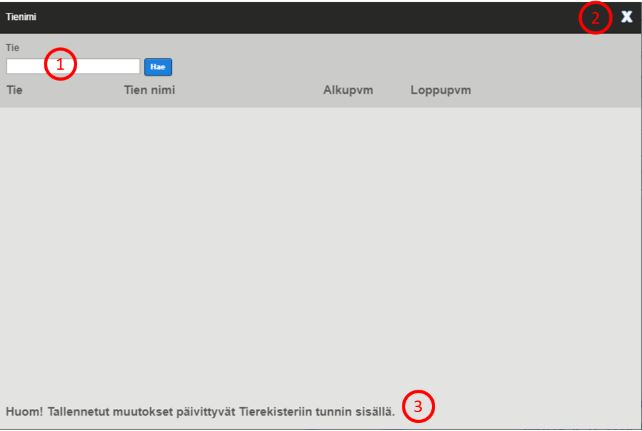
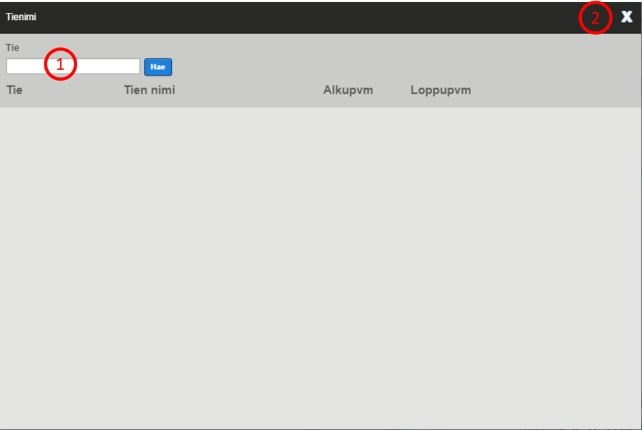
VIITE-2621 User manual update chapter 8

Changed region(s): [[0.0, 0.9049, 0.6854, 0.9954]]

diff --git a/viite-UI/manual/index.md b/viite-UI/manual/index.md
@@ -550,23 +550,23 @@ Tässä koostettuna tieosoiteprojektin tilat
 |Virhe tierekisterissä|Tierekisteri ei hyväksynyt projektia. Tierekisterin tarkempi virheilmoitus tulee näkyviin viemällä osoittimen "Virhe tierekisterissä"-tekstin päälle. Projektin voi avata uudelleen.|
 |Virhetilanne Viitteessä|Projekti on lähetty Tierekisteriin ja se on Tierekisterin hyväksymä, mutta projektin tiedot eivät piirry Viite-sovelluksessa.| 
 
-# 8. Tienimien ylläpito
+8 Tienimien ylläpito
 --------------------------
 
-Viitteessä teillä, joiden tienumero on suurempi kuin 70 000, tienimi on pakollinen tieto. Tienimi annetaan uutta tietä luotaessa projektilomakkeella.
+Viiteessä teillä, joiden tienumero on pienempi kuin 70 000, tienimi on pakollinen tieto. Tienimi annetaan toimenpidelomakkeella uutta tietä osoitteistettaessa.
 
-Jos annettu tienimi täytyy vaihtaa tai sitä pitää muokata esim. kirjoitusvirheen vuoksi, käytetään Tiennimen ylläpito -työkalua, joka avataan alkutilasta (karttakäyttöliittymän katselutilasta) Tieosoiteprojektit-painikkeen alta näytön oikeasta reunasta (kuva 6.1).
+Jos annettu tienimi täytyy vaihtaa tai sitä pitää muokata esim. kirjoitusvirheen vuoksi, käytetään _Tiennimen ylläpito_ -työkalua, joka avataan alkutilasta (karttakäyttöliittymän katselutilasta) Tieosoiteprojektit-painikkeen alta näytön oikeasta reunasta (kuva 6.1).
 
-Muokattavat tienimet haetaan tienumeron perusteella kirjoittamalla tien numero lomakkeen syöttökenttään (1) (kuva 8.1). Tiennimen ylläpito -ikkuna suljetaan klikkaamalla oikeasta yläkulmasta löytyvästä rastista (2). Lomakkeen alareunassa on huomautus (3), että tallennetut muutokset päivittyvät tierekisteriin tunnin sisällä.
+Muokattavat tienimet haetaan tienumeron perusteella kirjoittamalla tien numero lomakkeen syöttökenttään (1) (kuva 8.1). Tiennimen ylläpito -ikkuna suljetaan klikkaamalla oikeasta yläkulmasta löytyvästä rastista (2).
 
 ![Tienimen ylläpito](k53.JPG) 
 
-_Kuva 8.1: Tienimen ylläpito -työkalun lomakkeen etusivu._
+_Kuva 8.1: Tienimen ylläpito -työkalun lomake._
 
 8.1 Tien nimen muokkaaminen, kun tiellä on jo nimi
 --------------------------
 
-Kun tienumero on kirjoitettu syöttökenttään, painetaan Hae-painiketta, ja hakutulokset listautuvat hakukentän alapuolelle otsikkorivien alle (1). Listalla näkyvät tien aiemmat nimet alku- ja loppupäivämäärineen. Voimassa oleva nimi on listassa alimpana (2). Sitä voi muokata (syöttökenttä on valkoinen). Rivin lopussa on [+] –painike (3), jos haettu tie on voimassa oleva. Voimassa olevalla nimellä ei ole loppupäivämäärää (4). Hakukenttä ei tyhjene, mutta uuden haun voi tehdä kirjoittamalla uuden tienumeron hakukenttään ja painamalla jälleen Hae.
+Kun tienumero on kirjoitettu syöttökenttään, ja on painettu _Hae_-painiketta, hakutulokset listautuvat hakukentän alapuolelle otsikkorivien alle (1). Listalla näkyvät tien aiemmat nimet alku- ja loppupäivämäärineen. Voimassa oleva nimi on listassa alimpana (2). Sitä voi muokata (syöttökenttä on valkoinen). Rivin lopussa on [+] –painike (3), jos haettu tie on voimassa oleva. Voimassa olevalla nimellä ei ole loppupäivämäärää (4). Hakukenttä ei tyhjene, mutta uuden haun voi tehdä kirjoittamalla uuden tienumeron hakukenttään ja painamalla jälleen _Hae_.
 
 ![Listaus tienimistä ja uudelleenhaku](k54.JPG)
 
